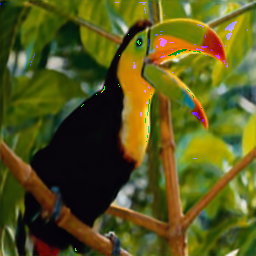
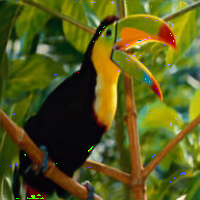
removed one attention

diff --git a/main.py b/main.py
@@ -22,7 +22,7 @@ def model(inputShape):
     x = AttentionBlock(256)(x)
     x = DepthwiseSeparableConv_Block(128, 3, strides = 1)(x)
     x = DepthwiseSeparableConv_Block(128, 5, strides = 1)(x)
-    x = AttentionBlock(128)(x)
+    #x = AttentionBlock(128)(x)
     x = DepthwiseSeparableConv_Block(64, 3, strides = 1)(x)
     x = DepthwiseSeparableConv_Block(64, 5, strides = 1)(x)
     #x = AttentionBlock(64)(x)
